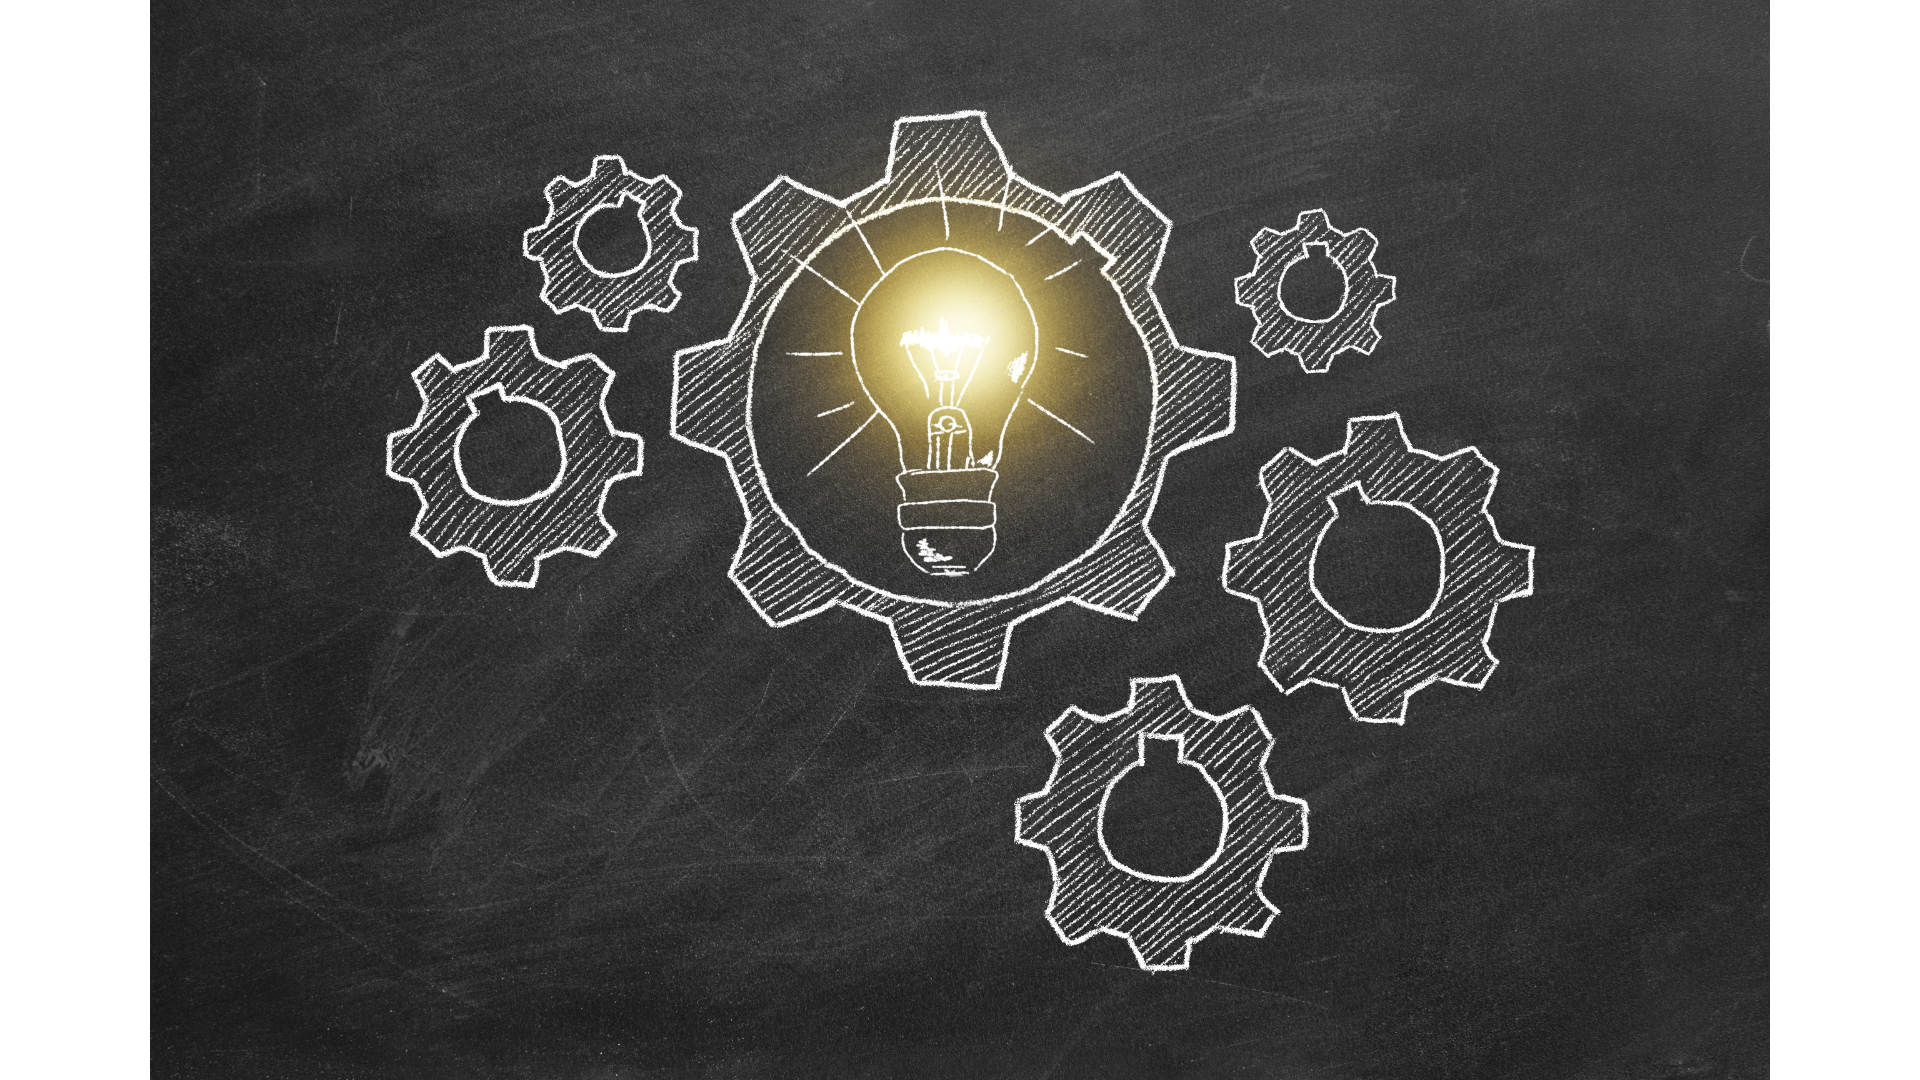
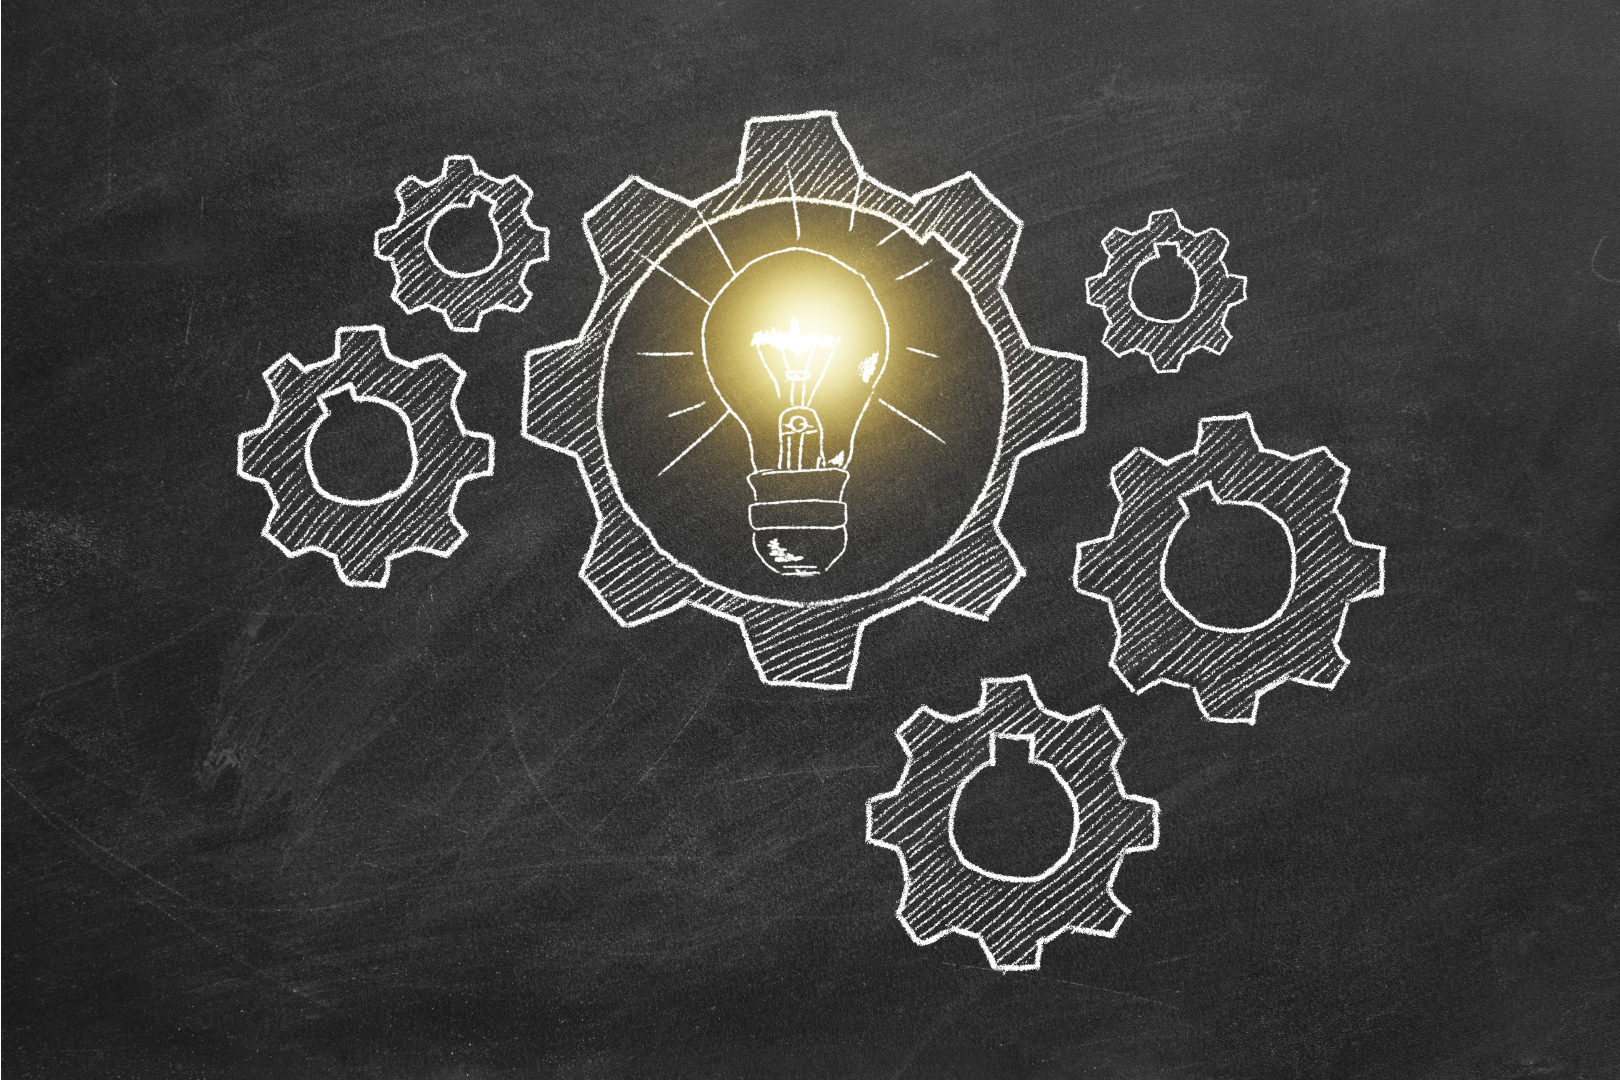
suppression bords images

diff --git a/assets/css/style.scss b/assets/css/style.scss
@@ -50,13 +50,12 @@ a.navbar-item.is-active {
         background-image: url({{site.heroimage}});
         background-position: center;
         background-repeat: no-repeat;
-        background-size: contain;
+        background-size: cover;
         background-attachment: fixed;
         top: 0px;
         right: 0px;
         bottom: 0px;
         left: 0px;
-        width: 100%;
         position: absolute;
         opacity: 0.25;
         content: "";
